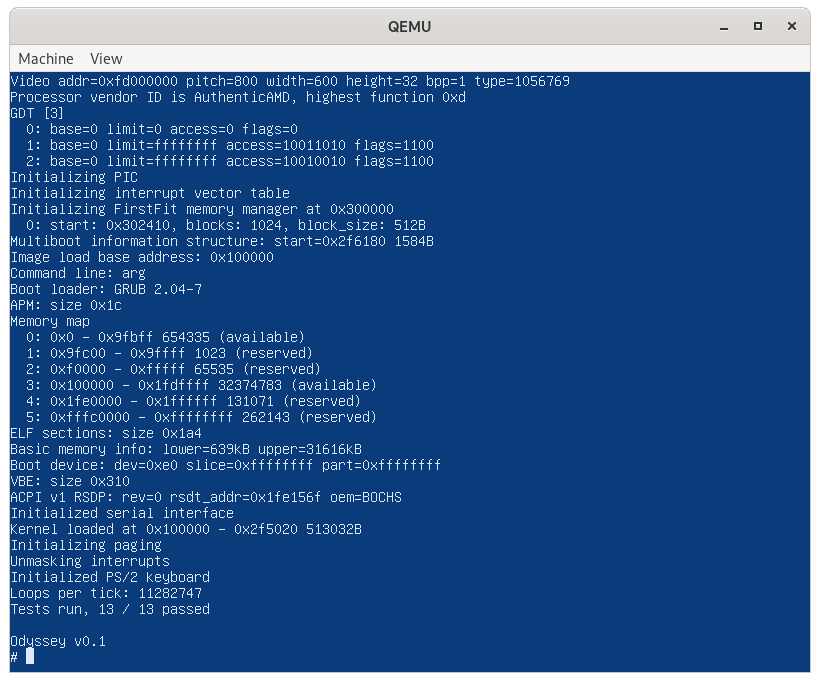
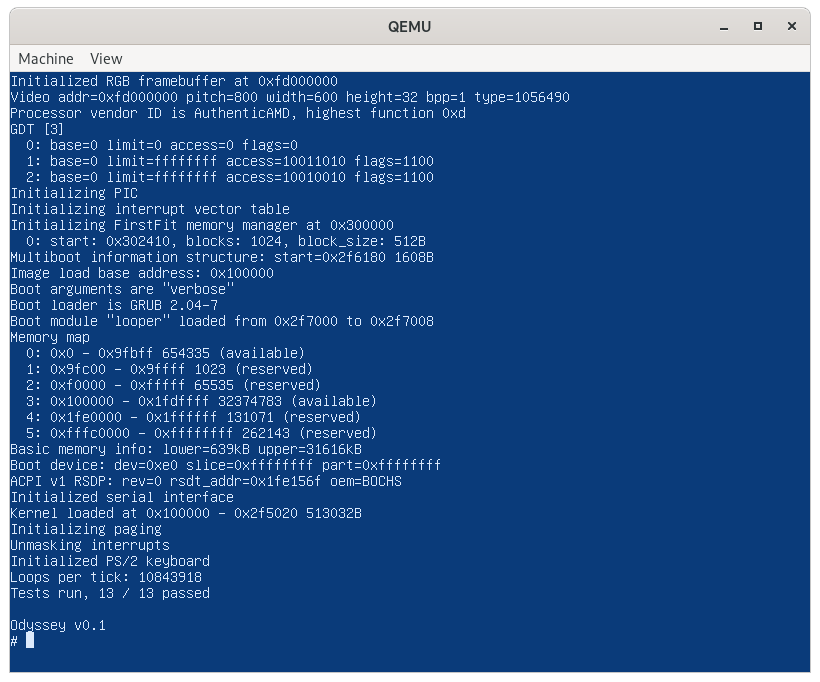
Boot arguments

diff --git a/src/x86/boot/boothdr.c b/src/x86/boot/boothdr.c
@@ -80,15 +80,14 @@ void read_multiboot_header_tags()
                 switch (tag->type) {
 
                         case MULTIBOOT_TAG_TYPE_CMDLINE:
-                        printk("Command line: %s\n",
-                                ((struct multiboot_tag_string *) tag)->string);
-                        break;
-
-                        case MULTIBOOT_TAG_TYPE_BOOT_LOADER_NAME:
                         strncpy(boot_cmdline,
                                 ((struct multiboot_tag_string *) tag)->string,
                                 BOOT_CMDLINE_MAX-1);
-                        printk("Boot loader: %s\n", boot_cmdline);
+                        printk("Boot arguments are \"%s\"\n", boot_cmdline);
+                        break;
+
+                        case MULTIBOOT_TAG_TYPE_BOOT_LOADER_NAME:
+                        printk("Boot loader is %s\n", ((struct multiboot_tag_string *) tag)->string);
                         break;
 
                         case MULTIBOOT_TAG_TYPE_MODULE:
